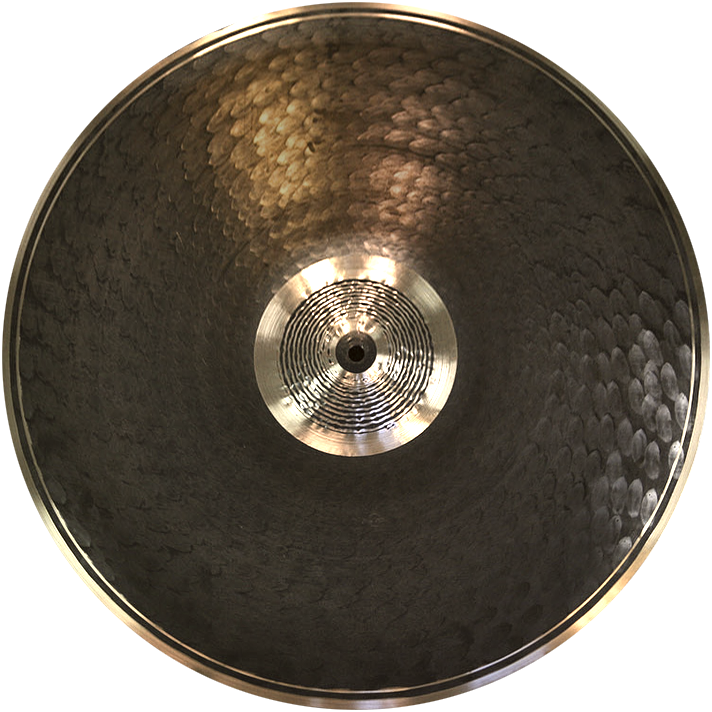
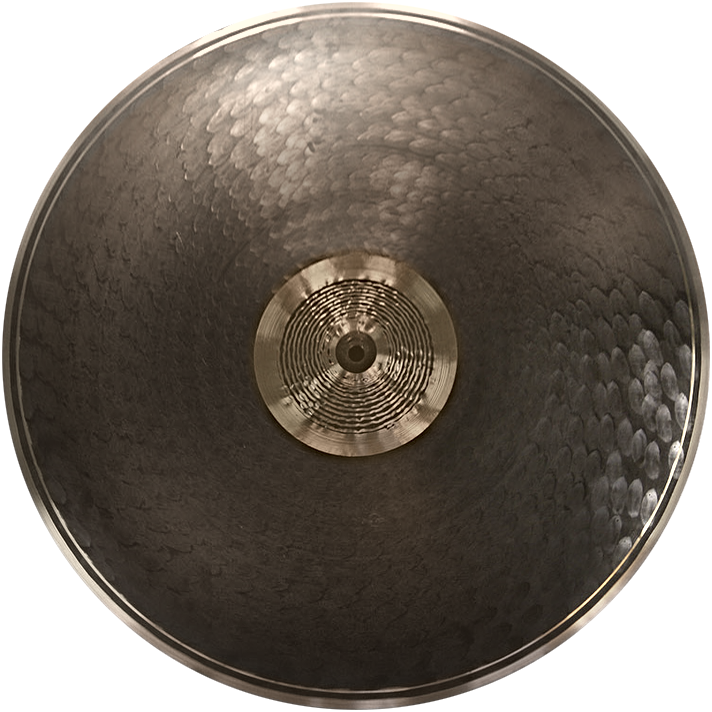
RAVEN photo: Nova-matched light and colour (version C2)
The geometry is unchanged; the bow takes Nova's large-scale light and tint,
except about 3 to 4:30 o'clock, which keeps version B.

Claude-Session: https://claude.ai/code/session_01HsruBaWiut2J8KCxFjLBUx

diff --git a/docs/BASELINE_MANIFEST.md b/docs/BASELINE_MANIFEST.md
@@ -128,4 +128,4 @@ Built 2026-10-26 in the project session from Kris's SPEAR captures (Bell V1-V4, 
 - The NPZ edge uses the plugin's 22 one-third-octave bands exactly (89.09 Hz x 2^(j/3)), so the Tuning window's onset-shift bands map one to one. The band envelopes are the SPEAR band levels (loudest band = 1); `edge_rms_correction` divides each band by its velw norm (geometric mean over the velocities, within x0.25-x4), so a band's level follows the SPEAR band level. It acts after the engine normalises the envelope, so a sparse band cannot become the envelope's peak.
 - Velocities from the captures' levels (RMS of the first 500 ms relative to the loudest capture of each articulation), in `data/raven_build_info.json` with the SPEAR level targets: BELL +4.72 dB and EDGE +16.23 dB above BOW (Bell V4, Edge V7 against Bow V7).
 - Build-up (LF and MF) as Bettis and Swish; wander, stick click and NL off. No velocity tables: bell and bow use the hertz law (v^2).
-- Photo: `resources/ui/Raven.png` (712 x 712, transparent, MD5 `cc487ecac64859067d9b978806558763`), made 2026-10-26 from Kris's only photo, which is taken at an angle: the rim ellipse (about 34 degrees of tilt) stretched back to a circle, the bell moved back to the centre by a correction that fades out towards the rim, and the light and colour evened out towards the other photos (Kris chose this version, B). The bell (or centre) zone ends at about 0.29 of the photo's radius.
+- Photo: `resources/ui/Raven.png` (712 x 712, transparent, MD5 `16a4fa620ab27117b6aa2c57dad51410`), made 2026-10-26 from Kris's only photo, which is taken at an angle: the rim ellipse (about 34 degrees of tilt) stretched back to a circle, the bell moved back to the centre by a correction that fades out towards the rim. Light and colour (version C2, Kris's choice, replacing version B): the bow's large-scale light and its tint taken from Nova's photo at the same angle, the hammering kept at Nova's local contrast, the edge zone lifted with the bow, the bell and rim moved towards Nova's tint; from about 3 to 4:30 o'clock the bow is version B (the photo's own light, evened out), blended over about 20 degrees. The bell (or centre) zone ends at about 0.29 of the photo's radius.
